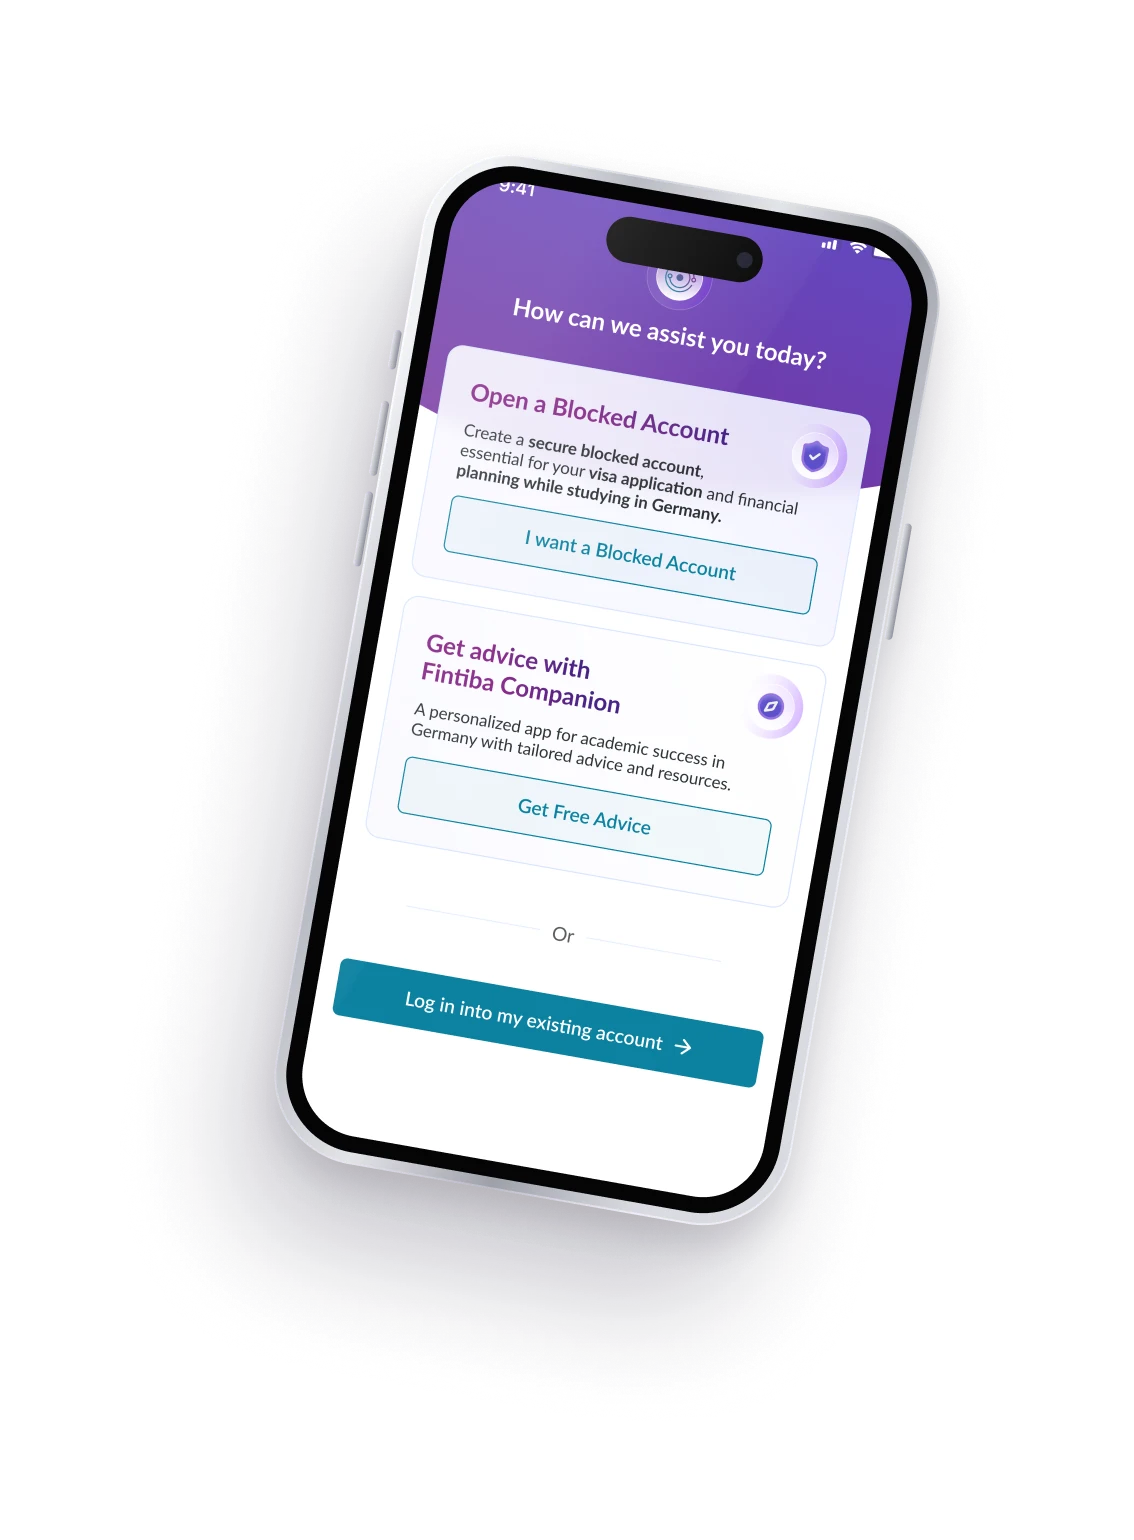
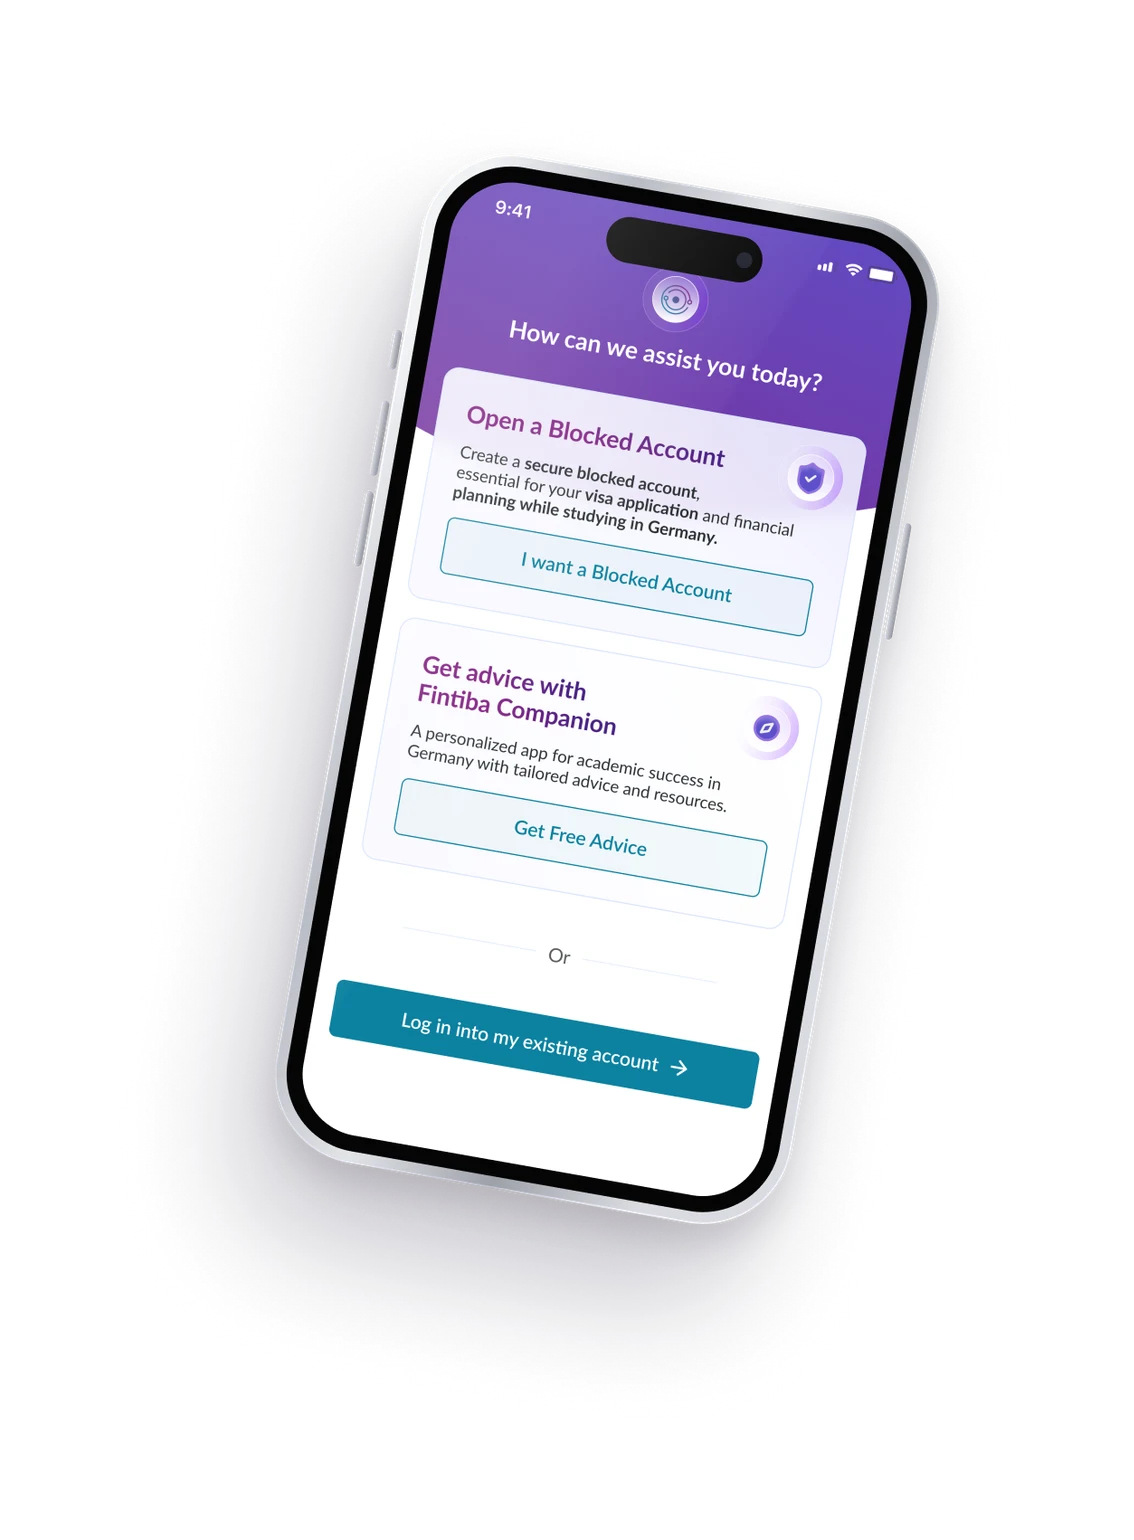
Login case: mobile mockup screen top no longer cropped
Claude-Session: https://claude.ai/code/session_011pq2ADq6rPTZrVGSK3qx6v

diff --git a/cases/login.html b/cases/login.html
@@ -298,7 +298,7 @@
         <div class="lg-mcard" data-rv>
           <div class="lg-duo-ph" role="img" aria-label="Два телефона: экран ввода кода из письма с повторной отправкой и экран выбора услуги">
             <img class="lg-duo-ph__sizer" src="../assets/img/login/mob-bg.webp" width="1630" height="1790" alt="" aria-hidden="true">
-            <img class="lg-duo-ph__s" src="../assets/img/login/mob-silver.webp" width="1134" height="1540" alt="" loading="lazy">
+            <img class="lg-duo-ph__s" src="../assets/img/login/mob-silver.webp?v=1793468365" width="1134" height="1540" alt="" loading="lazy">
             <img class="lg-duo-ph__b" src="../assets/img/login/mob-black.webp" width="944" height="1424" alt="" loading="lazy">
             <span class="lg-call lg-call--l" style="--x:27%;--y:37.6%;--i:0"><i></i>Код из 4 цифр</span>
             <span class="lg-call lg-call--l" style="--x:28.6%;--y:47.3%;--i:1"><i></i>Повторная отправка кода</span>
